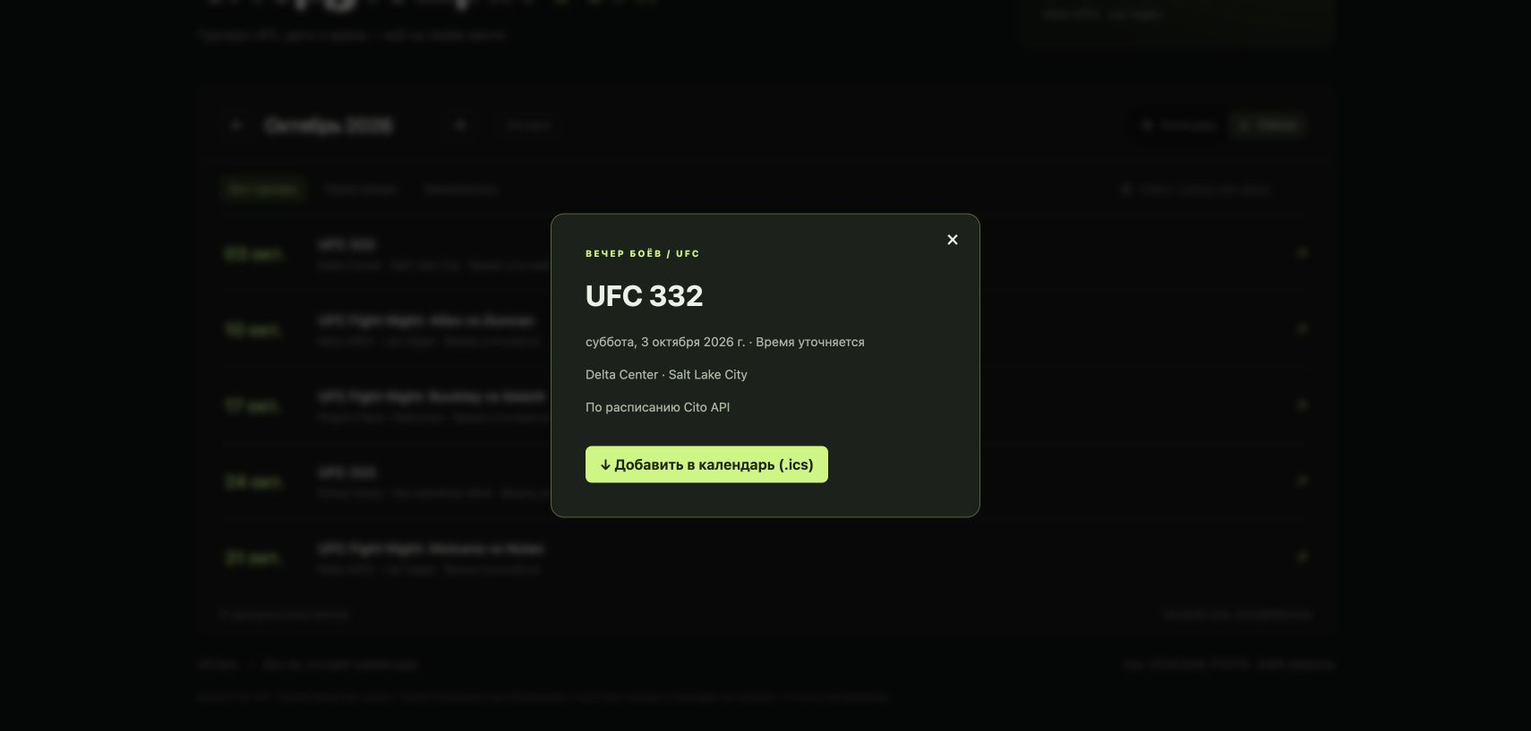
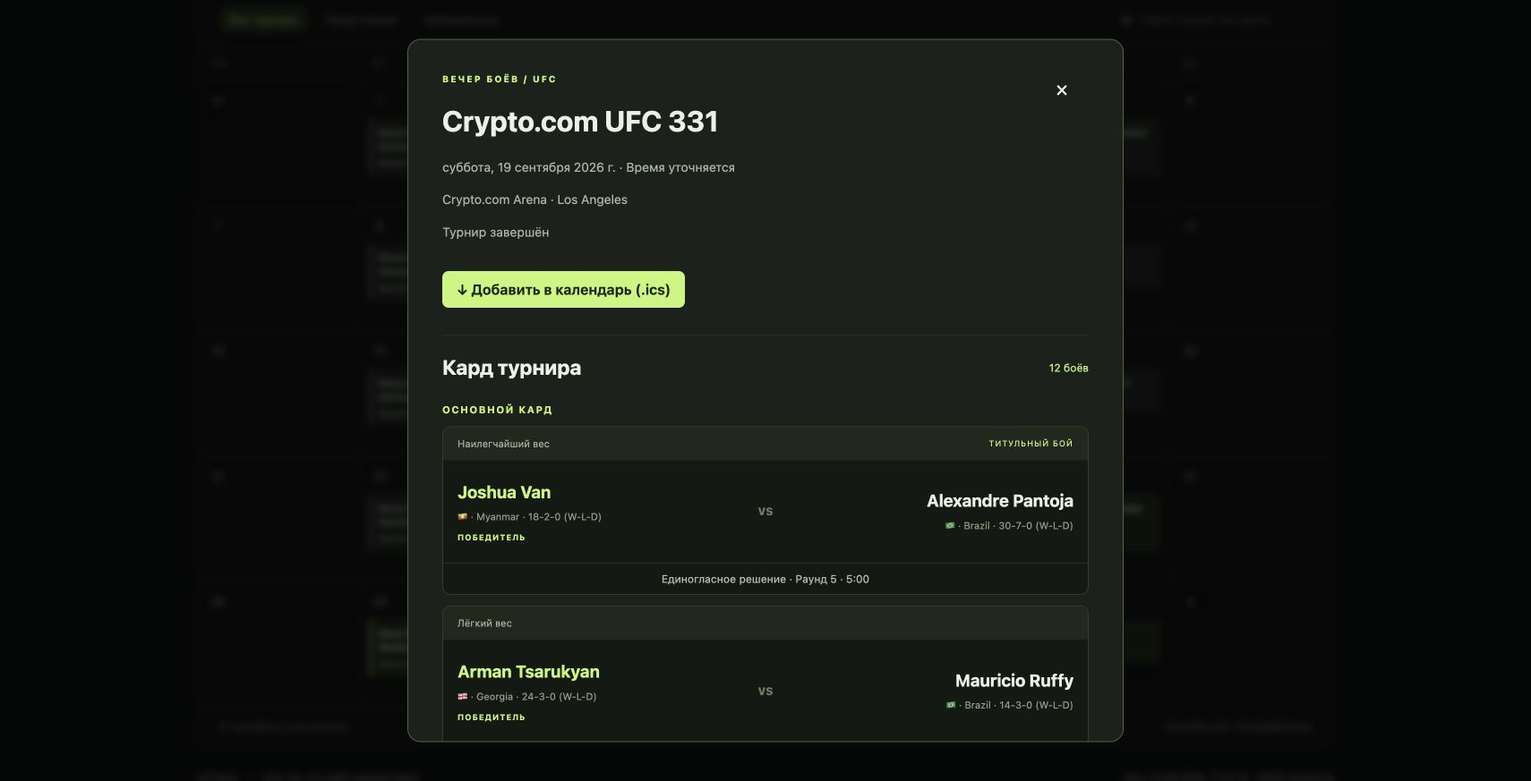
fixed

diff --git a/web/app.js b/web/app.js
@@ -25,7 +25,7 @@ function render(){
  const next=events.filter(e=>dateOf(e)&&e.status!=='completed'&&dateOf(e)>=new Date(new Date().setHours(0,0,0,0))).sort((a,b)=>dateOf(a)-dateOf(b))[0];
  $('#next').innerHTML='<span class="eyebrow">'+(demo?'ДЕМО / ПРИМЕР ТУРНИРА':'БЛИЖАЙШИЙ ТУРНИР')+'</span><h2>'+escape(next?next.name:'В ожидании карда')+'</h2><p>'+escape(next?format(dateOf(next),{day:'numeric',month:'long',weekday:'long'})+' · '+timeText(next):'Новые даты появятся после загрузки данных')+'</p>'+(next?'<p>'+escape([next.venue,next.location].filter(Boolean).join(' · '))+'</p>':'');
 }
-function openEvent(e){selected=e;$('#detailName').textContent=e.name;$('#detailDate').textContent=e.date?format(dateOf(e),{day:'numeric',month:'long',year:'numeric',weekday:'long'})+' · '+timeText(e):'Дата уточняется';$('#detailVenue').textContent=[e.venue,e.location].filter(Boolean).join(' · ')||'Арена пока не указана';$('#detailStatus').textContent=(demo?'Демонстрационные данные · ':'')+(e.status==='completed'?'Турнир завершён':'По расписанию Cito API');$('#export').disabled=!e.date;$('#detail').showModal();}
+function openEvent(e){selected=e;$('#detailName').textContent=e.name;$('#detailDate').textContent=e.date?format(dateOf(e),{day:'numeric',month:'long',year:'numeric',weekday:'long'})+' · '+timeText(e):'Дата уточняется';$('#detailVenue').textContent=[e.venue,e.location].filter(Boolean).join(' · ')||'Арена пока не указана';$('#detailStatus').textContent=(demo?'Демонстрационные данные · ':'')+(e.status==='completed'?'Турнир завершён':'По расписанию Cito API');$('#export').disabled=!e.date;$('#detail').showModal();loadCard(e);}
 $('#close').onclick=()=>$('#detail').close();$('#detail').onclick=e=>{if(e.target===$('#detail'))$('#detail').close()};
 $('#prev').onclick=()=>{month.setMonth(month.getMonth()-1);render()};$('#nextMonth').onclick=()=>{month.setMonth(month.getMonth()+1);render()};$('#today').onclick=()=>{month=new Date(new Date().getFullYear(),new Date().getMonth(),1);render()};
 $('#gridView').onclick=()=>{view='grid';render()};$('#listView').onclick=()=>{view='list';render()};$('#search').oninput=render;
@@ -36,3 +36,69 @@ function stamp(d){return d.toISOString().replace(/[-:]/g,'').replace(/\.\d{3}/,'
 $('#export').onclick=()=>{let e=selected;const lines=['BEGIN:VCALENDAR','VERSION:2.0','PRODID:-//UFCfans//Calendar//RU','BEGIN:VEVENT','UID:'+icsEscape(encodeURIComponent(e.id))+'@ufcfans.local','DTSTAMP:'+stamp(new Date()),e.date.length===10?'DTSTART;VALUE=DATE:'+e.date.replace(/-/g,''):'DTSTART:'+stamp(dateOf(e)),'SUMMARY:'+icsEscape((demo?'[ДЕМО] ':'')+e.name),'LOCATION:'+icsEscape([e.venue,e.location].filter(Boolean).join(', ')),'DESCRIPTION:'+icsEscape(demo?'Вымышленный демонстрационный турнир':'Расписание Cito API. Время может измениться.'),'END:VEVENT','END:VCALENDAR'];const folded=lines.map(line=>{let result='',size=0;for(const char of line){let n=new TextEncoder().encode(char).length;if(size+n>73){result+='\r\n ';size=1}result+=char;size+=n}return result}).join('\r\n')+'\r\n';let url=URL.createObjectURL(new Blob([folded],{type:'text/calendar;charset=utf-8'}));let a=document.createElement('a');a.href=url;a.download='ufc-event.ics';a.click();setTimeout(()=>URL.revokeObjectURL(url),1000)};
 async function load(){try{const r=await fetch('/api/events');if(!r.ok)throw Error();const data=await r.json();events=data.events;$('#setup').hidden=data.configured;$('#notice').hidden=!data.message;$('#notice').textContent=data.message;$('#sync').textContent=data.configured?('Кеш: '+(data.updatedAt.startsWith('0001')?'ещё не загружен':new Date(data.updatedAt).toLocaleString('ru-RU'))+' · '+data.requests+'/'+data.budget+' запросов'):'Без ключа · 0 запросов к API';render()}catch{$('#notice').hidden=false;$('#notice').textContent='Сервер недоступен. Обнови страницу, чтобы повторить загрузку.';$('#sync').textContent='Нет соединения';render()}}
 render();load();
+
+let cardRequest=0;
+async function loadCard(event){
+ const token=++cardRequest;
+ $('#boutCount').textContent='';$('#bouts').innerHTML='';$('#cardMessage').textContent='Загружаем пары бойцов…';
+ if(demo){$('#cardMessage').textContent='Полный кард доступен для реальных турниров после подключения API.';return}
+ try {
+  const response=await fetch('/api/events/'+encodeURIComponent(event.id)+'/bouts');
+  if(!response.ok)throw Error();
+  const data=await response.json();if(token!==cardRequest||selected?.id!==event.id)return;
+  $('#boutCount').textContent=data.bouts.length+' боёв';
+  $('#cardMessage').textContent=[data.message,data.stale&&data.bouts.length?'Показан сохранённый кард.':'',!data.bouts.length&&!data.message?'Пары бойцов пока не опубликованы.':''].filter(Boolean).join(' ');
+  renderBouts(data.bouts);
+ }catch{if(token===cardRequest)$('#cardMessage').textContent='Не удалось загрузить кард. Закрой и открой турнир, чтобы повторить.'}
+}
+const sectionNames={'Main Card':'Основной кард','Prelims':'Предварительный кард','Preliminary Card':'Предварительный кард','Early Prelims':'Ранний предварительный кард'};
+const divisions={'Flyweight':'Наилегчайший вес','Bantamweight':'Легчайший вес','Featherweight':'Полулёгкий вес','Lightweight':'Лёгкий вес','Welterweight':'Полусредний вес','Middleweight':'Средний вес','Light Heavyweight':'Полутяжёлый вес','Heavyweight':'Тяжёлый вес',"Women's Strawweight":'Женский минимальный вес',"Women's Flyweight":'Женский наилегчайший вес',"Women's Bantamweight":'Женский легчайший вес',"Women's Featherweight":'Женский полулёгкий вес'};
+function renderBouts(bouts){
+ const ordered=[...bouts].sort((a,b)=>(a.cardSectionOrder??99)-(b.cardSectionOrder??99)||(a.boutOrder??9999)-(b.boutOrder??9999));
+ const groups=new Map();for(const b of ordered){const key=b.cardSection||'Бои турнира';if(!groups.has(key))groups.set(key,[]);groups.get(key).push(b)}
+ let html='';for(const [section,rows]of groups){html+='<h4 class="card-section">'+escape(sectionNames[section]||section)+'</h4>';
+ for(const b of rows){
+  const fighters=Array.isArray(b.fighters)?b.fighters:[];
+  const red=fighters.find(f=>f.corner==='red')||fighters[0]||{},blue=fighters.find(f=>f.corner==='blue')||fighters.find(f=>f!==red)||{};
+  const cancelled=b.isCancelled||b.status==='cancelled';
+  const win=f=>!cancelled&&((b.winnerFighterSlug&&b.winnerFighterSlug===f.fighterSlug)||f.outcome==='win');
+  const fighter=f=>'<div class="fighter '+(win(f)?'winner':'')+'">'+(f.fighterSlug?'<button class="fighter-link" data-fighter="'+escape(f.fighterSlug)+'" data-name="'+escape(f.fighterName||f.profile?.name||'Боец')+'">'+escape(f.fighterName||f.profile?.name||'Боец')+' ↗</button>':'<strong>Соперник уточняется</strong>')+'<span>'+escape([f.flag,f.country,f.profile?.recordText].filter(Boolean).join(' · '))+'</span>'+(win(f)?'<b class="winner-label">ПОБЕДИТЕЛЬ</b>':'')+'</div>';
+  const weight=b.weightClass?.replace(/ Title$/,'')||'';
+  const method={'U-DEC':'Единогласное решение','S-DEC':'Раздельное решение','M-DEC':'Решение большинством','SUB':'Сабмишен','KO/TKO':'KO / TKO'}[b.method]||b.method;
+  const outcome=fighters.some(f=>f.outcome==='draw')?'Ничья':fighters.some(f=>['nc','no contest','no_contest'].includes(f.outcome))?'Бой без результата':'';
+  const result=cancelled?'Бой отменён'+(b.cancellationReason?' · '+b.cancellationReason:''):[outcome,method,b.resultRound?'Раунд '+b.resultRound:'',b.resultTime].filter(Boolean).join(' · ')||(b.status==='completed'?'Результат пока не опубликован':'Бой запланирован');
+  html+='<article class="bout '+(cancelled?'cancelled':'')+'"><div class="bout-meta"><span>'+escape(divisions[weight]||weight||'Весовая категория уточняется')+'</span>'+(b.titleBout?'<span class="title-badge">ТИТУЛЬНЫЙ БОЙ</span>':'')+'</div><div class="matchup">'+fighter(red)+'<span class="versus">VS</span>'+fighter(blue)+'</div><div class="bout-result">'+escape(result)+'</div></article>';
+ }
+ }$('#bouts').innerHTML=html;
+ document.querySelectorAll('[data-fighter]').forEach(button=>button.onclick=()=>openFighter(button.dataset.fighter,button.dataset.name));
+}
+
+let profileRequest=0;
+function closeFighter(){profileRequest++;$('#fighterProfile').close()}
+$('#fighterClose').onclick=closeFighter;$('#fighterBack').onclick=closeFighter;
+$('#fighterProfile').addEventListener('cancel',()=>{profileRequest++});
+$('#fighterProfile').onclick=e=>{if(e.target===$('#fighterProfile'))closeFighter()};
+async function openFighter(slug,name){
+ const token=++profileRequest;
+ $('#fighterContent').innerHTML='<h2 id="fighterName">'+escape(name)+'</h2>';
+ $('#fighterMessage').textContent='Загружаем профиль бойца…';$('#fighterProfile').showModal();
+ try{
+  const response=await fetch('/api/fighters/'+encodeURIComponent(slug));if(!response.ok)throw Error();
+  const data=await response.json();if(token!==profileRequest)return;
+  $('#fighterMessage').textContent=[data.message,data.stale&&data.fighter?'Показан сохранённый профиль.':''].filter(Boolean).join(' ');
+  if(data.fighter)renderFighter(data.fighter);else if(!data.message)$('#fighterMessage').textContent='Профиль пока не опубликован.';
+ }catch{if(token===profileRequest)$('#fighterMessage').textContent='Профиль недоступен. Вернись к карду и открой бойца повторно.'}
+}
+function renderFighter(f){
+ const scalar=v=>['string','number'].includes(typeof v)?String(v):'—';
+ const number=v=>v!==null&&v!==undefined&&v!==''&&['string','number'].includes(typeof v)&&Number.isFinite(Number(v))?Number(v):null;
+ const metric=(v,factor,unit)=>number(v)===null?'—':(number(v)*factor).toLocaleString('ru-RU',{maximumFractionDigits:1})+' '+unit;
+ const stat=(v,percent=false)=>number(v)===null?'—':(number(v)*(percent?100:1)).toLocaleString('ru-RU',{maximumFractionDigits:percent?0:2})+(percent?'%':'');
+ const item=(label,value)=>'<div class="profile-item"><dt>'+escape(label)+'</dt><dd>'+escape(value)+'</dd></div>';
+ let photo='';try{const url=new URL(f.proxiedImageUrl||f.headshotUrl||f.imageUrl);if(url.protocol==='https:'&&['ufc.com','www.ufc.com','api.citoapi.com'].includes(url.hostname))photo=url.href}catch{}
+ const rec=f.record||{},stats=f.stats||{};
+ const facts=[['Место рождения',scalar(f.placeOfBirth||f.country)],['Возраст',scalar(f.age)],['Рост',metric(f.heightInches,2.54,'см')],['Вес',metric(f.weightLbs,0.45359237,'кг')],['Размах рук',metric(f.reachInches,2.54,'см')],['Стойка',({Orthodox:'Правосторонняя',Southpaw:'Левосторонняя',Switch:'Смена стойки'})[f.stance]||scalar(f.stance)],['Команда',scalar(f.trainsAt)],['Стиль',scalar(f.fightingStyle)]];
+ const statsRows=[['Точность ударов',stats.strikingAccuracy,true],['Защита от ударов',stats.sigStrikeDefense,true],['Точность тейкдаунов',stats.takedownAccuracy,true],['Защита от тейкдаунов',stats.takedownDefense,true],['Значимых ударов / мин',stats.sigStrikesLandedPerMin],['Пропущенных ударов / мин',stats.sigStrikesAbsorbedPerMin],['Тейкдаунов / 15 мин',stats.takedownAvgPer15Min],['Попыток сабмишена / 15 мин',stats.submissionAvgPer15Min]];
+ $('#fighterContent').innerHTML='<div class="profile-hero">'+(photo?'<img id="fighterPhoto" src="'+escape(photo)+'" alt="'+escape(f.name)+'" referrerpolicy="no-referrer">':'')+'<div><div class="eyebrow">ПРОФИЛЬ БОЙЦА</div><h2 id="fighterName">'+escape(f.name)+'</h2>'+(f.nickname?'<p class="nickname">«'+escape(f.nickname)+'»</p>':'')+'<p>'+escape(divisions[f.division]||f.division||f.weightClass||'Дивизион не указан')+'</p>'+(f.championStatus==='champion'?'<span class="tag">ЧЕМПИОН</span>':'')+'</div></div><div class="record-grid">'+[['Победы',rec.wins??f.recordWins],['Поражения',rec.losses??f.recordLosses],['Ничьи',rec.draws??f.recordDraws]].map(([label,value])=>'<div><strong>'+escape(scalar(value))+'</strong><span>'+label+'</span></div>').join('')+'</div><h3>О бойце</h3><dl class="profile-grid">'+facts.map(([k,v])=>item(k,v)).join('')+'</dl>'+(f.bio&&typeof f.bio==='string'?'<p class="profile-bio">'+escape(f.bio)+'</p>':'')+'<h3>Статистика карьеры</h3><dl class="profile-grid">'+statsRows.map(([k,v,p])=>item(k,stat(v,p))).join('')+'</dl>'+(Array.isArray(f.rankings)&&f.rankings.length?'<h3>Рейтинги</h3><div class="profile-rankings">'+f.rankings.map(r=>'<p><span>'+escape((r.system==='media'?'Медиарейтинг':r.system==='meta'?'Meta':r.system||'Рейтинг')+' · '+(divisions[r.division]||r.division||''))+'</span><b>'+escape(r.isChampion?'Чемпион':r.rankText||r.rank||'—')+'</b></p>').join('')+'</div>':'')+'<p class="card-note">Данные Cito API. Пропуски означают, что показатель не предоставлен. Профиль обновляется не чаще раза в сутки.</p>';
+ const img=$('#fighterPhoto');if(img)img.onerror=()=>{img.hidden=true};
+}

diff --git a/web/style.css b/web/style.css
@@ -1,1 +1,3 @@
 :root{font-family:Inter,-apple-system,BlinkMacSystemFont,"Segoe UI",sans-serif;color:#edf0e9;background:#101211;font-synthesis:none;--muted:#889187;--line:#2a302b;--lime:#c5f675}*{box-sizing:border-box}body{margin:0}button,a,input{-webkit-tap-highlight-color:transparent}button,.button{font:inherit;cursor:pointer;border:1px solid var(--line);background:#1b201c;color:#edf0e9;border-radius:7px;padding:10px 15px;text-decoration:none}button:hover,.button:hover{border-color:#829663;background:#283020}button:focus-visible,a:focus-visible,input:focus-visible{outline:2px solid var(--lime);outline-offset:4px}header{height:88px;border-bottom:1px solid var(--line);display:flex;align-items:center;gap:44px;padding:0 5%}.brand{color:white;font-size:30px;font-weight:950;font-style:italic;text-decoration:none;letter-spacing:-1.5px}.brand span{font-weight:400}.brand i{display:inline-block;width:7px;height:7px;background:var(--lime);margin-left:5px}.header-label{font-size:11px;letter-spacing:2px;color:var(--muted)}.pill{margin-left:auto;font-size:11px;border:1px solid #3a4530;border-radius:30px;padding:9px 13px;color:var(--lime)}main{max-width:1440px;margin:auto;padding:48px 5% 20px}.intro{display:flex;justify-content:space-between;align-items:center;gap:48px;margin-bottom:36px}.eyebrow{color:var(--lime);font-size:10px;font-weight:750;letter-spacing:2px}h1{font-size:clamp(42px,5vw,68px);line-height:1.04;letter-spacing:-3px;margin:19px 0;font-weight:800}h1 em{color:var(--lime);font-style:normal}.intro p{color:var(--muted);font-size:14px}.next{width:350px;min-height:170px;border:1px solid #414f32;border-radius:12px;padding:25px;background:radial-gradient(ellipse at right top,#334025,transparent 85%),#171d16}.next h2{font-size:25px;letter-spacing:-.7px;margin:21px 0 12px}.next p{font-size:12px;line-height:1.7;margin:0}.next .tag{margin-top:13px}.workspace{border:1px solid var(--line);border-radius:12px;overflow:hidden;background:#141815}.toolbar{display:flex;align-items:center;justify-content:space-between;padding:22px 24px;gap:16px}.month-control{display:flex;align-items:center;gap:12px}.month-control h2{font-size:22px;min-width:186px;margin:0;text-transform:capitalize;letter-spacing:-.7px}.month-control>button{padding:7px 11px;background:transparent}.month-control .today{margin-left:10px;color:var(--muted);font-size:12px}.view-switch{display:flex;background:#0d100e;border-radius:7px;padding:4px}.view-switch button{background:transparent;border:0;font-size:12px;color:var(--muted);padding:8px 12px}.view-switch button[aria-pressed=true]{background:#30372b;color:#e6f4d7}.filters{border-top:1px solid var(--line);display:flex;justify-content:space-between;align-items:center;padding:14px 24px;gap:15px}.tabs{display:flex;gap:8px}.tabs button{border:0;color:var(--muted);font-size:12px;padding:8px 11px;background:transparent}.tabs button.active{background:#293720;color:var(--lime)}.search{display:flex;align-items:center;gap:9px;color:#899380}.search span{font-size:25px}.search input{background:transparent;border:0;color:white;width:190px;padding:8px 0;font:inherit;font-size:12px}.calendar{display:grid;grid-template-columns:repeat(7,minmax(0,1fr))}.weekday{padding:13px 15px;border-top:1px solid var(--line);border-bottom:1px solid var(--line);font-size:10px;letter-spacing:1.5px;color:var(--muted)}.day{min-height:122px;border-right:1px solid var(--line);border-bottom:1px solid var(--line);padding:10px;min-width:0}.day:nth-child(7n){border-right:0}.day.outside{background:#111412;color:#4a5149}.day-number{display:inline-flex;font-size:12px;width:24px;height:24px;align-items:center;justify-content:center;color:#a3ada0}.day.current .day-number{background:var(--lime);color:#17210d;border-radius:50%;font-weight:800}.day.current{background:#1a2117}.event{display:block;width:100%;text-align:left;background:#24321d;border:0;border-left:2px solid var(--lime);border-radius:4px;padding:9px 8px;margin-top:7px;color:#e0f2c9}.event strong{font-size:11px;display:block;line-height:1.4;overflow-wrap:anywhere}.event small{display:block;font-size:10px;color:#abb9a0;margin-top:5px}.event.completed{background:#252b26;border-color:#798779;color:#bcc5b9}.calendar-foot{display:flex;justify-content:space-between;padding:15px 24px;font-size:11px;color:var(--muted)}footer{display:flex;justify-content:space-between;gap:20px;margin-top:27px;color:var(--muted);font-size:11px}footer b{color:#4c5944;margin:0 10px}.fine{font-size:10px;line-height:1.7;color:#5f6a5f;margin-top:21px}.notice,.setup{border:1px solid #485434;padding:20px 24px;border-radius:10px;background:#202719;margin-bottom:24px;font-size:13px;line-height:1.7}.setup{display:flex;align-items:center;justify-content:space-between;gap:20px}.setup h2{font-size:20px;margin:0 0 8px}.setup p{color:#b2baa9;margin:0 0 10px}.setup code{font-size:12px}.setup-actions{display:flex;flex-direction:column;gap:10px;min-width:170px}.primary{background:var(--lime);color:#1b260e;border-color:var(--lime);font-weight:650}.primary:hover{background:#dcffa7}.tag{display:inline-block;font-size:10px;color:var(--lime);border:1px solid #586b40;border-radius:4px;padding:4px 7px}.event-list{padding:0 24px}.list-row{display:flex;align-items:center;gap:25px;width:100%;text-align:left;border:0;border-top:1px solid var(--line);border-radius:0;background:transparent;padding:22px 5px}.list-row .date-box{color:var(--lime);font-size:20px;font-weight:700;min-width:80px}.list-row strong{font-size:15px}.list-row p{color:var(--muted);font-size:12px;margin:7px 0 0}.list-row .arrow{margin-left:auto;color:var(--lime)}.empty{padding:48px 24px;text-align:center;color:var(--muted);font-size:14px}dialog{background:#1b211a;color:#ecf2e7;border:1px solid #52663c;border-radius:15px;padding:38px;max-width:480px;width:calc(100% - 32px)}dialog::backdrop{background:#000a;backdrop-filter:blur(4px)}dialog h2{font-size:32px;margin:22px 0}dialog p{color:#acb6a4;line-height:1.6;font-size:14px}dialog .primary{margin-top:18px}.close{position:absolute;right:13px;top:10px;padding:3px 10px;font-size:23px;border:0;background:transparent}[hidden]{display:none!important}@media(min-width:1400px){.day{min-height:140px}}@media(max-width:850px){header{height:70px;gap:20px}.header-label{display:none}main{padding-top:30px}.intro{gap:20px}.next{width:290px}.toolbar{align-items:flex-start;flex-direction:column}.filters{align-items:flex-start;flex-direction:column}.day{padding:5px;min-height:100px}.event{padding:6px 4px}.event small{display:none}.month-control h2{min-width:170px}.setup{align-items:flex-start;flex-direction:column}.setup-actions{flex-direction:row}footer{flex-direction:column;gap:10px}}@media(max-width:540px){.intro{display:block}.next{width:100%;margin-top:25px;min-height:130px}.next h2{margin:13px 0;font-size:23px}h1{font-size:48px}.toolbar,.filters{padding:16px 12px}.month-control{gap:7px}.month-control h2{font-size:19px;min-width:150px}.month-control .today{margin-left:0;padding:8px}.weekday{padding:10px 6px}.day-number{font-size:10px}.event strong{font-size:9px}.day{min-height:90px;padding:3px}.calendar-foot{padding:13px 12px;gap:12px;line-height:1.5}.tabs{gap:0}.tabs button{padding:8px}.list-row{gap:10px}.list-row .date-box{font-size:16px;min-width:65px}.pill{font-size:10px}}
+dialog{max-width:800px;max-height:90vh;overflow-y:auto}dialog .close{position:sticky;float:right;top:0;background:#1b211a;z-index:2}.fight-card{border-top:1px solid var(--line);margin-top:30px;padding-top:22px}.card-heading{display:flex;align-items:center;justify-content:space-between}.card-heading h3{font-size:23px;margin:0}.card-heading>span{font-size:12px;color:var(--lime)}#cardMessage{font-size:12px}.card-section{color:var(--lime);text-transform:uppercase;letter-spacing:1.5px;font-size:11px;margin:27px 0 12px}.bout{background:#141914;border:1px solid #303b2b;border-radius:9px;margin-bottom:12px;overflow:hidden}.bout-meta{padding:12px 16px;display:flex;gap:10px;justify-content:space-between;align-items:center;font-size:11px;color:#a8b59d;background:#20281c}.title-badge{font-size:9px;letter-spacing:1px;color:var(--lime)}.matchup{display:grid;grid-template-columns:1fr 32px 1fr;gap:12px;padding:23px 16px;align-items:center}.fighter strong{display:block;font-size:19px;line-height:1.3}.fighter span{display:block;font-size:11px;color:#93a087;line-height:1.6;margin-top:7px}.fighter:last-child{text-align:right}.versus{color:#6d7a63;font-weight:800;font-size:12px;text-align:center}.winner strong,.winner-label{color:var(--lime)}.winner-label{display:block;font-size:9px;letter-spacing:1px;margin-top:9px}.bout-result{border-top:1px solid var(--line);padding:10px 16px;font-size:12px;color:#b4c1a8;text-align:center}.cancelled{opacity:.65}.card-note{font-size:11px!important;color:var(--muted)!important}@media(max-width:540px){dialog{padding:22px 16px}.matchup{gap:7px;padding:18px 12px;grid-template-columns:1fr 24px 1fr}.fighter strong{font-size:16px}.bout-meta{padding:11px 12px;flex-wrap:wrap}.title-badge{font-size:8px}}
+.fighter-link{padding:0;border:0;border-radius:0;background:none;color:inherit;text-align:inherit;font-weight:700;font-size:19px;line-height:1.3}.fighter-link:hover{background:none;color:var(--lime);text-decoration:underline}.winner .fighter-link{color:var(--lime)}.back-card{background:transparent;font-size:12px;margin-bottom:15px}.profile-hero{display:flex;align-items:center;gap:26px;margin:15px 0 25px}.profile-hero img{width:150px;height:160px;object-fit:contain;background:radial-gradient(ellipse,#394c29,#151c12);border-radius:12px}.profile-hero h2{margin:12px 0 5px;font-size:36px}.profile-hero p{margin:7px 0}.nickname{color:var(--lime)!important}.record-grid{display:grid;grid-template-columns:repeat(3,1fr);background:#26331d;border:1px solid #435533;border-radius:10px;margin-bottom:28px}.record-grid>div{text-align:center;padding:20px 5px}.record-grid strong{display:block;font-size:32px;color:var(--lime)}.record-grid span{display:block;font-size:11px;color:#b2bea7;margin-top:5px}.profile-grid{display:grid;grid-template-columns:1fr 1fr;gap:1px;background:var(--line);border:1px solid var(--line);border-radius:8px;overflow:hidden}.profile-item{padding:15px;background:#161d14}.profile-item dt{font-size:11px;color:#9caa91;margin-bottom:8px}.profile-item dd{margin:0;font-size:17px;overflow-wrap:anywhere}.profile-rankings p{display:flex;justify-content:space-between;gap:12px;padding:12px;border-bottom:1px solid var(--line);font-size:12px}.profile-rankings b{color:var(--lime)}.profile-bio{white-space:pre-line}#fighterMessage{font-size:12px}@media(max-width:540px){.fighter-link{font-size:16px}.profile-hero{gap:14px}.profile-hero img{width:95px;height:120px}.profile-hero h2{font-size:25px}.profile-item{padding:12px}.profile-item dd{font-size:15px}}

diff --git a/web/index.html b/web/index.html
@@ -7,4 +7,4 @@
 <div class="filters"><div class="tabs"><button data-filter="all" class="active">Все турниры</button><button data-filter="upcoming">Предстоящие</button><button data-filter="completed">Завершённые</button></div><label class="search"><span>⌕</span><input id="search" placeholder="Найти турнир или арену" aria-label="Поиск турниров"></label></div>
 <div class="calendar" id="calendar"></div><div id="list" class="event-list" hidden></div><div class="calendar-foot"><span id="count"></span><span id="timezone"></span></div></section>
 <footer><span>UFCfans <b> / </b> Для тех, кто ждёт каждый кард.</span><span id="sync">Подключаемся…</span></footer><p class="fine">Данные Cito API · Независимый фан-проект. Архив пополняется при обновлениях; отсутствие турнира в календаре не означает, что он не запланирован.</p></main>
-<dialog id="detail"><button id="close" class="close" aria-label="Закрыть">×</button><div class="eyebrow">ВЕЧЕР БОЁВ / UFC</div><h2 id="detailName"></h2><p id="detailDate"></p><p id="detailVenue"></p><p id="detailStatus"></p><button id="export" class="button primary">↓ Добавить в календарь (.ics)</button></dialog></body></html>
+<dialog id="detail"><button id="close" class="close" aria-label="Закрыть">×</button><div class="eyebrow">ВЕЧЕР БОЁВ / UFC</div><h2 id="detailName"></h2><p id="detailDate"></p><p id="detailVenue"></p><p id="detailStatus"></p><button id="export" class="button primary">↓ Добавить в календарь (.ics)</button><section class="fight-card" aria-label="Кард турнира"><div class="card-heading"><h3>Кард турнира</h3><span id="boutCount"></span></div><p id="cardMessage" role="status"></p><div id="bouts"></div><p class="card-note">Состав и порядок боёв могут измениться. Отображаются все пары, опубликованные Cito API.</p></section></dialog><dialog id="fighterProfile" aria-labelledby="fighterName"><button id="fighterClose" class="close" aria-label="Закрыть профиль">×</button><button id="fighterBack" class="back-card">← К карду турнира</button><p id="fighterMessage" role="status"></p><div id="fighterContent"></div></dialog></body></html>

diff --git a/main.go b/main.go
@@ -1,6 +1,7 @@
 package main
 
 import (
+	"bytes"
 	"context"
 	"embed"
 	"encoding/json"
@@ -30,11 +31,14 @@ type Event struct {
 	Status   string `json:"status"`
 }
 type Cache struct {
-	Events   []Event   `json:"events"`
-	Updated  time.Time `json:"updatedAt"`
-	Attempt  time.Time `json:"attemptAt"`
-	Month    string    `json:"month"`
-	Requests int       `json:"requests"`
+	Fighters     map[string]CardCache `json:"fighters,omitempty"`
+	Cards        map[string]CardCache `json:"cards,omitempty"`
+	RequestTimes []time.Time          `json:"requestTimes,omitempty"`
+	Events       []Event              `json:"events"`
+	Updated      time.Time            `json:"updatedAt"`
+	Attempt      time.Time            `json:"attemptAt"`
+	Month        string               `json:"month"`
+	Requests     int                  `json:"requests"`
 }
 type App struct {
 	mu              sync.Mutex
@@ -123,25 +127,12 @@ func decodeEvents(r io.Reader, status string) ([]Event, error) {
 	return events, nil
 }
 func (a *App) fetch(ctx context.Context, path, status string) ([]Event, error) {
-	a.cache.Requests++
-	// Persist the request counter before spending quota, including failed calls.
-	if err := a.save(); err != nil {
-		return nil, fmt.Errorf("cannot persist quota: %w", err)
-	}
-	req, err := http.NewRequestWithContext(ctx, "GET", a.base+path, nil)
+	req, _ := http.NewRequestWithContext(ctx, "GET", "http://localhost", nil)
+	body, err := a.request(req, path)
 	if err != nil {
 		return nil, err
 	}
-	req.Header.Set("x-api-key", a.key)
-	resp, err := a.client.Do(req)
-	if err != nil {
-		return nil, err
-	}
-	defer resp.Body.Close()
-	if resp.StatusCode != 200 {
-		return nil, fmt.Errorf("Cito API: HTTP %d", resp.StatusCode)
-	}
-	return decodeEvents(io.LimitReader(resp.Body, 4<<20), status)
+	return decodeEvents(bytes.NewReader(body), status)
 }
 func (a *App) calendar(w http.ResponseWriter, r *http.Request) {
 	a.mu.Lock()
@@ -205,6 +196,8 @@ func (a *App) calendar(w http.ResponseWriter, r *http.Request) {
 func (a *App) handler() http.Handler {
 	mux := http.NewServeMux()
 	mux.HandleFunc("GET /api/events", a.calendar)
+	mux.HandleFunc("GET /api/fighters/{slug}", a.fighter)
+	mux.HandleFunc("GET /api/events/{id}/bouts", a.card)
 	mux.HandleFunc("GET /", func(w http.ResponseWriter, r *http.Request) {
 		path := r.URL.Path
 		if path == "/" {
@@ -226,7 +219,7 @@ func (a *App) handler() http.Handler {
 	return http.HandlerFunc(func(w http.ResponseWriter, r *http.Request) {
 		w.Header().Set("X-Content-Type-Options", "nosniff")
 		w.Header().Set("Referrer-Policy", "no-referrer")
-		w.Header().Set("Content-Security-Policy", "default-src 'self'; style-src 'self'; script-src 'self'; img-src 'self' data:; object-src 'none'; base-uri 'none'; frame-ancestors 'none'")
+		w.Header().Set("Content-Security-Policy", "default-src 'self'; style-src 'self'; script-src 'self'; img-src 'self' data: https://ufc.com https://www.ufc.com https://api.citoapi.com; object-src 'none'; base-uri 'none'; frame-ancestors 'none'")
 		mux.ServeHTTP(w, r)
 	})
 }

diff --git a/README.md b/README.md
@@ -20,9 +20,15 @@
 
 ### Карточка турнира
 
-Дата и место проведения, статус и кнопка экспорта в календарь `.ics`.
+Дата и место проведения, полный опубликованный кард с результатами и кнопка экспорта в календарь `.ics`.
 
-![Карточка UFC 332 с экспортом в календарь](docs/screenshots/event.jpg)
+![Карточка UFC 331 с парами бойцов и результатами](docs/screenshots/event.jpg)
+
+### Профиль бойца
+
+Нажмите на имя в карде, чтобы посмотреть рекорд, параметры, статистику и рейтинги.
+
+![Профиль Joshua Van](docs/screenshots/fighter.jpg)
 
 ## Запуск
 
@@ -48,12 +54,15 @@ go build -o ufcfans .
 
 - Календарь по месяцам и список, поиск по названию/арене, фильтр предстоящих и завершённых турниров.
 - Ближайший турнир, карточка события и экспорт `.ics`.
+- Полный опубликованный кард: основной и предварительные разделы, пары бойцов, рекорды, весовые категории, титульные и отменённые бои, победители и результаты.
 - Часовой пояс браузера; даты без времени сохраняются как события на весь день.
 - UI встроен в исполняемый файл; CDN, npm и сборка фронтенда не нужны.
 
+- Профили бойцов по нажатию на имя в карде: фото, рекорд, возраст, рост, вес, размах рук, команда, статистика карьеры и рейтинги. Возврат к карду сохраняет его положение.
+
 ## Бесплатный тариф и кеш
 
-Сервер получает `/ufc/events/upcoming` и `/ufc/events/recent` при первом открытии и затем по запросу пользователя, только если кеш старше 12 часов. Обычно это не более 4 запросов в сутки (124 за 31 день). Навигация по месяцам, поиск и экспорт не вызывают Cito API. Фонового опроса нет.
+Сервер получает `/ufc/events/upcoming` и `/ufc/events/recent` при первом открытии и затем по запросу пользователя, только если кеш старше 12 часов. Обычно это не более 4 запросов в сутки (124 за 31 день). При открытии турнира сервер загружает `/ufc/events/{id}/bouts`: один дополнительный запрос на кард с кешем на 12 часов. Повторное открытие использует кеш; при ошибке сохраняется предыдущий кард, следующая попытка — через час. Профиль `/ufc/fighters/{slug}` загружается одним запросом вместе со статистикой и рейтингами и кешируется на 24 часа. При ошибке используется сохранённый профиль, повторы ограничены одним в час. Календарь, карды и профили делят общий лимит 450 запросов в месяц и 10 в минуту. Навигация по месяцам, поиск и экспорт не вызывают Cito API. Фонового опроса нет.
 
 События, время обновления и счётчик запросов сохраняются на диск с правами 0600. Ошибки тоже расходуют локальный счётчик; повтор возможен не раньше чем через час. При недоступности API показываются старые данные. Внутренний предел — 450 запросов за календарный месяц UTC, оставляя запас от бесплатных 500. Это счётчик данного экземпляра, а не остаток аккаунта: использование ключа в других приложениях здесь не учитывается. Запускайте один экземпляр на один файл кеша; удаление файла сбрасывает локальный учёт.
 
